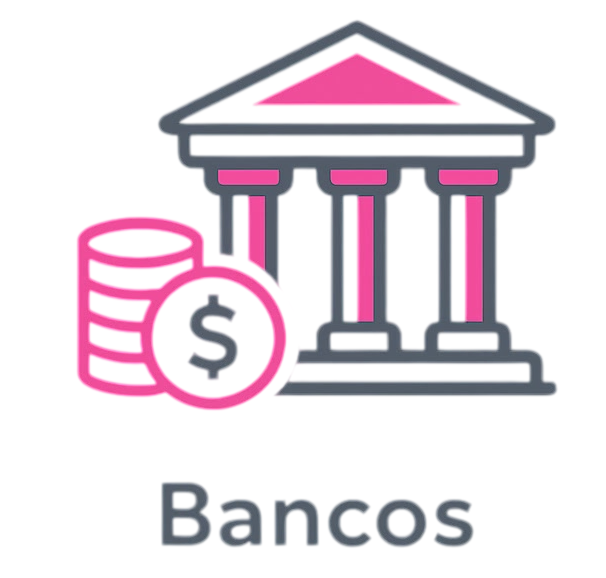
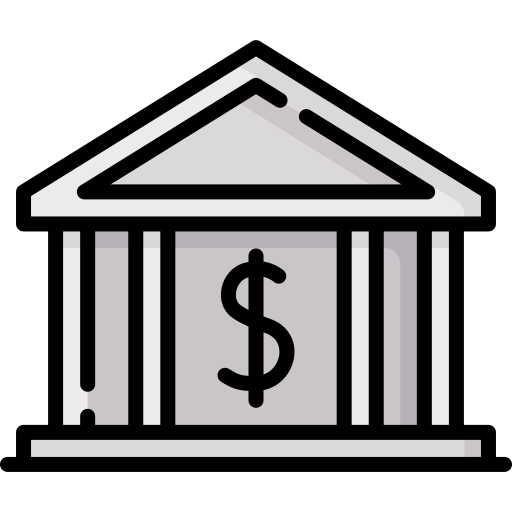
style(assets): actualizar imagen por defecto para bancos vacíos

diff --git a/public/js/views.js b/public/js/views.js
@@ -642,7 +642,7 @@ const Views = {
                 cardsHtml = `
                 <div style="grid-column: 1 / -1; text-align: center; padding: 60px 20px; max-width: 600px; margin: 0 auto; display: flex; flex-direction: column; align-items: center; justify-content: center; min-height: 300px;">
                     <div style="margin-bottom: 24px; animation: float 6s ease-in-out infinite;">
-                        <img src="img/bancos-empty.png?v=2" alt="Bancos" style="width: 100%; max-width: 220px; height: auto; object-fit: contain; filter: drop-shadow(0 10px 20px rgba(0,0,0,0.4));">
+                        <img src="img/bancos-empty.png?v=3" alt="Bancos" style="width: 100%; max-width: 220px; height: auto; object-fit: contain; filter: drop-shadow(0 10px 20px rgba(0,0,0,0.4));">
                     </div>
                     <h3 style="margin: 0 0 12px 0; color: var(--text-primary); font-size: 1.4rem; font-weight: 700; letter-spacing: -0.5px;">Ninguna cuenta seleccionada</h3>
                     <p style="margin: 0; color: var(--text-secondary); font-size: 1.05rem; max-width: 400px; line-height: 1.5;">Despliegue el menú superior y seleccione una cuenta bancaria para visualizar su saldo y empezar a gestionar sus transacciones.</p>

diff --git a/public/index.html b/public/index.html
@@ -42,7 +42,7 @@
     <script src="js/icons.js?v=19"></script>
     <script src="js/state.js?v=152"></script>
     <script src="js/store.js?v=152"></script>
-    <script src="js/views.js?v=153"></script>
+    <script src="js/views.js?v=155"></script>
     <script src="js/app.js?v=152"></script>
 </body>
 </html>
